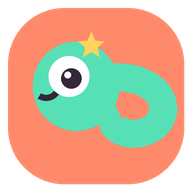
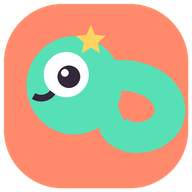
Improve indexing and responsive site chrome

Changed region(s): [[0.0, 0.0, 1.0, 1.0], [0.5938, 0.4688, 0.8125, 0.6562]]

diff --git a/components/ui/BrandMark.tsx b/components/ui/BrandMark.tsx
@@ -10,24 +10,26 @@ export function BrandMark({ className }: BrandMarkProps) {
       focusable="false"
       className={className}
     >
-      <rect x="2" y="2" width="44" height="44" rx="14" fill="var(--candy-coral)" />
-      <path
-        d="M18.2 31.8c2.7 5.8 12.2 7.6 18.1 2.2 5.2-4.7 2.1-12.7-3.6-11.2-4.7 1.2-5.4 7-1.4 8.7 3.1 1.3 5.5-.9 4.6-3.4"
-        fill="none"
-        stroke="var(--candy-mint)"
-        strokeWidth="7"
-        strokeLinecap="round"
-        strokeLinejoin="round"
-      />
-      <path
-        d="M8.2 21.8c0-6.7 4.7-11.4 11-11.4 6.1 0 10.6 4.5 10.6 10.8 0 6.7-4.5 11.5-10.8 11.5-6.2 0-10.8-4.4-10.8-10.9Z"
-        fill="var(--candy-mint)"
-      />
-      <circle cx="17.2" cy="19.1" r="5.1" fill="var(--surface)" />
-      <circle cx="17.8" cy="19.6" r="2.55" fill="var(--ink)" />
-      <circle cx="16.9" cy="18.7" r="0.85" fill="var(--surface)" />
-      <path d="M8.8 22.2c2.1 1 3.8.9 5.3-.1" fill="none" stroke="var(--ink)" strokeWidth="1.55" strokeLinecap="round" />
-      <path d="m22.8 8.1 1.2 2.4 2.6.4-1.9 1.8.5 2.6-2.4-1.3-2.3 1.3.4-2.6-1.9-1.8 2.7-.4Z" fill="var(--candy-lemon)" />
+      <rect x="1" y="1" width="46" height="46" rx="14.5" fill="var(--candy-coral)" />
+      <g transform="translate(-2.4 -2.4) scale(1.1)">
+        <path
+          d="M18.2 31.8c2.7 5.8 12.2 7.6 18.1 2.2 5.2-4.7 2.1-12.7-3.6-11.2-4.7 1.2-5.4 7-1.4 8.7 3.1 1.3 5.5-.9 4.6-3.4"
+          fill="none"
+          stroke="var(--candy-mint)"
+          strokeWidth="7"
+          strokeLinecap="round"
+          strokeLinejoin="round"
+        />
+        <path
+          d="M8.2 21.8c0-6.7 4.7-11.4 11-11.4 6.1 0 10.6 4.5 10.6 10.8 0 6.7-4.5 11.5-10.8 11.5-6.2 0-10.8-4.4-10.8-10.9Z"
+          fill="var(--candy-mint)"
+        />
+        <circle cx="17.2" cy="19.1" r="5.1" fill="var(--surface)" />
+        <circle cx="17.8" cy="19.6" r="2.55" fill="var(--ink)" />
+        <circle cx="16.9" cy="18.7" r="0.85" fill="var(--surface)" />
+        <path d="M8.8 22.2c2.1 1 3.8.9 5.3-.1" fill="none" stroke="var(--ink)" strokeWidth="1.55" strokeLinecap="round" />
+        <path d="m22.8 8.1 1.2 2.4 2.6.4-1.9 1.8.5 2.6-2.4-1.3-2.3 1.3.4-2.6-1.9-1.8 2.7-.4Z" fill="var(--candy-lemon)" />
+      </g>
     </svg>
   );
 }

diff --git a/games/fortune/FortuneGame.tsx b/games/fortune/FortuneGame.tsx
@@ -406,8 +406,7 @@ export function FortuneGame() {
             initial={reduceMotion ? false : { opacity: 0, y: -5 }}
             animate={{ opacity: 1, y: 0 }}
             exit={reduceMotion ? undefined : { opacity: 0, y: -6 }}
-            className="pointer-events-auto absolute left-1/2 grid w-[min(92vw,29rem)] -translate-x-1/2 grid-cols-4 gap-1.5"
-            style={{ top: "calc(env(safe-area-inset-top) + 5.25rem)" }}
+            className="pointer-events-auto absolute left-1/2 top-[calc(env(safe-area-inset-top)+5.25rem)] grid w-[calc(100%-1rem)] max-w-[29rem] -translate-x-1/2 grid-cols-4 gap-1 max-[350px]:top-[calc(env(safe-area-inset-top)+6.25rem)] sm:gap-1.5"
           >
             {CATEGORY_VISUALS.map(
               ({ id, icon: CategoryIcon, activeClassName }) => {
@@ -419,7 +418,7 @@ export function FortuneGame() {
                     role="radio"
                     aria-checked={selected}
                     onClick={() => selectCategory(id)}
-                    className={`flex min-h-10 items-center justify-center gap-1 rounded-full border px-1.5 text-xs font-black shadow-sm outline-none transition-colors focus-visible:outline-2 focus-visible:outline-offset-[-2px] focus-visible:outline-ink/25 sm:min-h-11 sm:gap-1.5 sm:text-sm ${
+                    className={`flex min-h-10 items-center justify-center gap-1 rounded-full border px-1 text-xs font-black shadow-sm outline-none transition-colors focus-visible:outline-2 focus-visible:outline-offset-[-2px] focus-visible:outline-ink/25 max-[350px]:text-[0.68rem] sm:min-h-11 sm:gap-1.5 sm:px-1.5 sm:text-sm ${
                       selected
                         ? activeClassName
                         : "border-ink/[0.06] bg-surface/64 text-ink-soft hover:bg-surface hover:text-ink"
@@ -429,6 +428,7 @@ export function FortuneGame() {
                       aria-hidden
                       size={15}
                       strokeWidth={selected ? 2.8 : 2.3}
+                      className="max-[350px]:hidden"
                     />
                     <span>{t(`categories.${id}.label`)}</span>
                   </button>

diff --git a/components/ui/LocaleSwitcher.tsx b/components/ui/LocaleSwitcher.tsx
@@ -1,0 +1,56 @@
+"use client";
+
+import { useLocale, useTranslations } from "next-intl";
+import { usePathname, useRouter } from "@/i18n/navigation";
+
+const LOCALES = [
+  { id: "ko", label: "KO", name: "한국어" },
+  { id: "en", label: "EN", name: "English" },
+] as const;
+
+export function LocaleSwitcher() {
+  const locale = useLocale();
+  const t = useTranslations();
+  const pathname = usePathname();
+  const router = useRouter();
+
+  const changeLocale = (nextLocale: (typeof LOCALES)[number]["id"]) => {
+    if (nextLocale === locale) return;
+    const suffix = `${window.location.search}${window.location.hash}`;
+    router.replace(`${pathname}${suffix}`, { locale: nextLocale });
+  };
+
+  return (
+    <nav
+      className="fixed right-3 top-3 z-20 sm:right-4 sm:top-4"
+      style={{
+        top: "calc(env(safe-area-inset-top) + 0.75rem)",
+        right: "calc(env(safe-area-inset-right) + 0.75rem)",
+      }}
+      aria-label={t("nav.language")}
+    >
+      <div className="inline-flex min-h-11 items-center rounded-full border border-ink/8 bg-surface/94 p-1 shadow-[0_6px_18px_color-mix(in_srgb,var(--ink)_10%,transparent)]">
+        {LOCALES.map(({ id, label, name }) => {
+          const selected = locale === id;
+          return (
+            <button
+              key={id}
+              type="button"
+              onClick={() => changeLocale(id)}
+              aria-label={name}
+              aria-pressed={selected}
+              title={name}
+              className={`grid h-9 min-w-10 place-items-center rounded-full px-2 text-xs font-black tracking-[0.04em] transition-colors focus-visible:outline-2 focus-visible:outline-offset-2 focus-visible:outline-candy-coral sm:min-w-11 sm:text-sm ${
+                selected
+                  ? "bg-candy-mint text-ink shadow-sm"
+                  : "text-ink-soft hover:bg-bg hover:text-ink"
+              }`}
+            >
+              {label}
+            </button>
+          );
+        })}
+      </div>
+    </nav>
+  );
+}

diff --git a/components/ui/GameCard.tsx b/components/ui/GameCard.tsx
@@ -57,16 +57,16 @@ export function GameCard({
         ) : null}
       </div>
 
-      <div className="flex min-h-[4.15rem] items-center gap-2 border-t border-ink/[0.06] px-3.5 py-2.5 sm:min-h-[4.5rem] sm:px-5 sm:py-3">
+      <div className="flex min-h-[4.4rem] items-center gap-1.5 border-t border-ink/[0.06] px-3 py-2.5 sm:min-h-[4.5rem] sm:gap-2 sm:px-5 sm:py-3">
         <span
           aria-hidden
           className="h-2 w-2 shrink-0 rounded-full bg-[var(--game-accent)] shadow-[0_0_0_3px_color-mix(in_srgb,var(--game-accent)_14%,transparent)]"
         />
-        <h2 className="min-w-0 flex-1 overflow-hidden break-keep font-display text-[1.25rem] leading-[1.04] text-ink [display:-webkit-box] [-webkit-box-orient:vertical] [-webkit-line-clamp:2] sm:text-[1.6rem] lg:text-[1.7rem]">
+        <h2 className="min-w-0 flex-1 text-balance break-normal font-display text-[clamp(1.08rem,5.1vw,1.25rem)] leading-[1.12] text-ink sm:text-[1.6rem] lg:text-[1.7rem]">
           {title}
         </h2>
         {live ? (
-          <span className="grid h-7 w-7 shrink-0 place-items-center rounded-full bg-ink/[0.045] text-ink/40 transition duration-300 group-hover/card:translate-x-0.5 group-hover/card:bg-[var(--game-accent)] group-hover/card:text-ink sm:h-8 sm:w-8">
+          <span className="grid h-6 w-6 shrink-0 place-items-center rounded-full bg-ink/[0.045] text-ink/40 transition duration-300 group-hover/card:translate-x-0.5 group-hover/card:bg-[var(--game-accent)] group-hover/card:text-ink sm:h-8 sm:w-8">
             <ChevronRight aria-hidden className="h-4 w-4" strokeWidth={2.5} />
           </span>
         ) : null}

diff --git a/components/ui/LocaleSwitcher.test.tsx b/components/ui/LocaleSwitcher.test.tsx
@@ -1,13 +1,12 @@
 import { cleanup, fireEvent, render } from "@testing-library/react";
 import { afterEach, beforeEach, describe, expect, it, vi } from "vitest";
-import { SiteFooter } from "./SiteFooter";
+import { LocaleSwitcher } from "./LocaleSwitcher";
 
 const { replace } = vi.hoisted(() => ({ replace: vi.fn() }));
 
 vi.mock("next-intl", () => ({
   useLocale: () => "ko",
-  useTranslations: () => (key: string) =>
-    key === "site.name" ? "두구두구" : "언어",
+  useTranslations: () => () => "언어",
 }));
 
 vi.mock("@/i18n/navigation", () => ({
@@ -15,7 +14,7 @@ vi.mock("@/i18n/navigation", () => ({
   useRouter: () => ({ replace }),
 }));
 
-describe("SiteFooter locale switcher", () => {
+describe("LocaleSwitcher", () => {
   beforeEach(() => {
     replace.mockReset();
     window.history.replaceState(
@@ -27,8 +26,8 @@ describe("SiteFooter locale switcher", () => {
 
   afterEach(cleanup);
 
-  it("shows both languages and preserves the current query and hash", () => {
-    const view = render(<SiteFooter />);
+  it("preserves the current query and hash while switching locale", () => {
+    const view = render(<LocaleSwitcher />);
 
     expect(
       view.getByRole("button", { name: "한국어" }).getAttribute("aria-pressed"),

diff --git a/app/[locale]/layout.tsx b/app/[locale]/layout.tsx
@@ -2,7 +2,7 @@ import { notFound } from "next/navigation";
 import { hasLocale, NextIntlClientProvider } from "next-intl";
 import { setRequestLocale } from "next-intl/server";
 import { routing } from "@/i18n/routing";
-import { SiteFooter } from "@/components/ui/SiteFooter";
+import { LocaleSwitcher } from "@/components/ui/LocaleSwitcher";
 import {
   rootHtmlClassName,
   rootMetadata,
@@ -36,12 +36,6 @@ export default async function LocaleLayout({ children, params }: Props) {
     <html lang={locale} className={rootHtmlClassName}>
       <head>
         <link
-          rel="icon"
-          href="/brand-icon-192.png"
-          type="image/png"
-          sizes="192x192"
-        />
-        <link
           rel="preconnect"
           href="https://cdn.jsdelivr.net"
           crossOrigin="anonymous"
@@ -54,7 +48,7 @@ export default async function LocaleLayout({ children, params }: Props) {
       <body className="min-h-full">
         <NextIntlClientProvider>
           {children}
-          <SiteFooter />
+          <LocaleSwitcher />
         </NextIntlClientProvider>
       </body>
     </html>

diff --git a/app/root-config.ts b/app/root-config.ts
@@ -20,6 +20,22 @@ export const rootHtmlClassName =
 
 export const rootMetadata: Metadata = {
   metadataBase: new URL(SITE_URL),
+  icons: {
+    icon: [
+      {
+        url: "/brand-icon.svg",
+        type: "image/svg+xml",
+        sizes: "any",
+      },
+    ],
+    apple: [
+      {
+        url: "/apple-touch-icon.png",
+        type: "image/png",
+        sizes: "180x180",
+      },
+    ],
+  },
   verification: {
     google: "V0LWQEMkzQlQoG6mGSp1UFldKcpsvuxhbgMof6G0fUE",
   },
@@ -54,6 +70,17 @@ export const rootMetadata: Metadata = {
   twitter: {
     card: "summary_large_image",
     images: ["/images/brand/social-card.png"],
+  },
+  robots: {
+    index: true,
+    follow: true,
+    googleBot: {
+      index: true,
+      follow: true,
+      "max-image-preview": "large",
+      "max-snippet": -1,
+      "max-video-preview": -1,
+    },
   },
 };
 

diff --git a/components/ui/TopBar.tsx b/components/ui/TopBar.tsx
@@ -21,7 +21,7 @@ export function TopBar({ siteName }: Props) {
         className="group/brand pointer-events-auto inline-flex h-11 items-center gap-2 rounded-full pr-1 font-display text-xl text-ink outline-none transition-transform hover:scale-[1.02] focus-visible:ring-4 focus-visible:ring-candy-pink/35 active:scale-[0.98] sm:gap-2.5 sm:pr-1.5 sm:text-2xl"
       >
         <BrandMark className="h-9 w-9 shrink-0 drop-shadow-[0_5px_7px_color-mix(in_srgb,var(--ink)_13%,transparent)] transition-transform duration-300 ease-[var(--ease-pop)] group-hover/brand:-rotate-3 group-hover/brand:scale-105" />
-        <span className="max-w-[7rem] truncate leading-none">{siteName}</span>
+        <span className="whitespace-nowrap leading-none">{siteName}</span>
       </Link>
     </header>
   );

diff --git a/app/sitemap.ts b/app/sitemap.ts
@@ -5,6 +5,8 @@ import { absolutePageUrl } from "@/lib/site";
 
 export const dynamic = "force-static";
 
+const LAST_MEANINGFUL_UPDATE = new Date("2026-08-22T00:00:00+09:00");
+
 export default function sitemap(): MetadataRoute.Sitemap {
   const localizedPages = [
     { path: "", priority: 1 },
@@ -28,7 +30,8 @@ export default function sitemap(): MetadataRoute.Sitemap {
 
     return routing.locales.map((locale) => ({
       url: absolutePageUrl(`/${locale}${path}`),
-      changeFrequency: "monthly" as const,
+      lastModified: LAST_MEANINGFUL_UPDATE,
+      changeFrequency: "weekly" as const,
       priority,
       alternates: { languages },
     }));

diff --git a/components/ui/GameRouteTitle.tsx b/components/ui/GameRouteTitle.tsx
@@ -13,10 +13,10 @@ export function GameRouteTitle({
   className = "",
 }: GameRouteTitleProps) {
   return (
-    <div className={`inline-flex min-w-0 items-end gap-2 ${className}`}>
+    <div className={`inline-flex min-w-0 max-w-full items-end gap-2 max-[350px]:max-w-[calc(100vw-7.75rem)] ${className}`}>
       <div
         id={id}
-        className="whitespace-nowrap font-display text-4xl leading-none text-ink sm:text-5xl"
+        className="min-w-0 text-balance break-normal font-display text-[clamp(2rem,9.2vw,2.25rem)] leading-[0.96] text-ink sm:text-5xl"
       >
         {children}
       </div>

diff --git a/components/lobby/MascotPeek.tsx b/components/lobby/MascotPeek.tsx
@@ -86,6 +86,7 @@ export function MascotPeek({
           width={640}
           height={640}
           sizes="(min-width: 640px) 88px, 80px"
+          loading="eager"
           className="pointer-events-none absolute -bottom-3 -right-2 h-auto w-20 max-w-none drop-shadow-[0_10px_12px_color-mix(in_srgb,var(--ink)_14%,transparent)] transition-transform duration-200 ease-[var(--ease-pop)] group-active/mascot:scale-95 sm:-bottom-3 sm:-right-2 sm:w-[5.5rem]"
         />
       </button>

diff --git a/app/[locale]/games/[slug]/page.tsx b/app/[locale]/games/[slug]/page.tsx
@@ -153,7 +153,11 @@ export default async function GamePage({ params }: Props) {
 
   return (
     <>
-      <h1 className="sr-only">{gt("seo.heading")}</h1>
+      <section className="sr-only" aria-labelledby="game-page-title">
+        <h1 id="game-page-title">{gt("seo.heading")}</h1>
+        <p>{gt("tagline")}</p>
+        <p>{gt("description")}</p>
+      </section>
       <GamePlayer slug={slug} />
 
       <JsonLd
